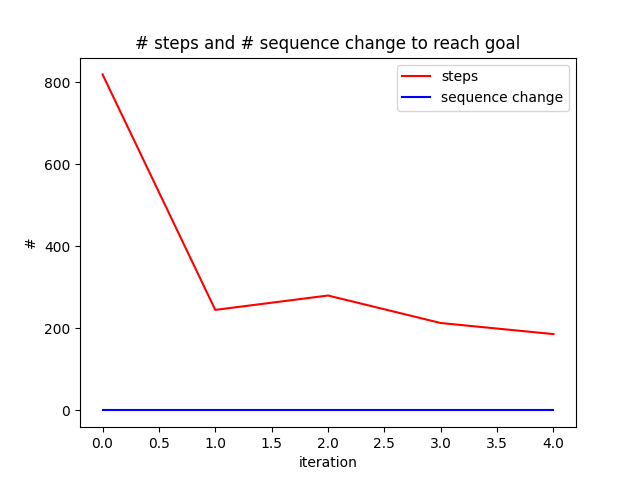
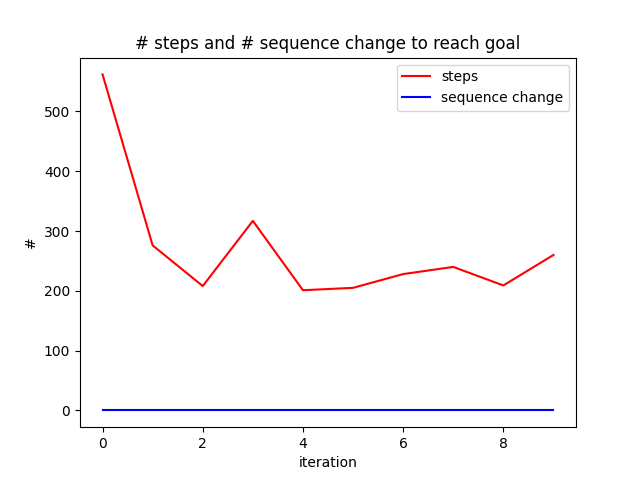
Update

diff --git a/voiture/main.py b/voiture/main.py
@@ -28,7 +28,7 @@ last_reward = 0
 last_action = 0
 last_distance = 0
 last_orientation = 0
-last_nb_steps = 1e5
+last_nb_steps = 1
 cum_rewards = 0
 scores = []
 steps_memory = []
@@ -120,35 +120,18 @@ class Game(Widget):
             if distance < last_distance:
                 last_reward = 0.1 # driving towards objective reward
 
-        # score based also on orientation
-        #  last_reward += (1-abs(orientation)) * 0.9
-        # if abs(last_orientation) < abs(orientation):
-        #     last_reward -= 0.2
-        # elif abs(last_orientation) == abs(orientation):
-        #     last_reward += 0.
-        # else:
-        #     last_reward += 0.2
-        # Score also based on sequence change
-        # global last_action
-        # if list_actions[last_action][0] == list_actions[action][0]:
-        #     last_reward += 0.02
-        # else:
-        #     self.seq_change += 1
-
-        # last_action = action
-
         if self.robot.x < 10:
             self.robot.x = 10
-            last_reward = -50  # too close to edges of the wall reward
+            last_reward = -10  # too close to edges of the wall reward
         if self.robot.x > self.width - 10:
             self.robot.x = self.width - 10
-            last_reward = -50
+            last_reward = -10
         if self.robot.y < 10:
             self.robot.y = 10
-            last_reward = -50
+            last_reward = -10
         if self.robot.y > self.height - 10:
             self.robot.y = self.height - 10
-            last_reward = -50
+            last_reward = -10
 
         if distance < 50:
             global goal_reached_nb

diff --git a/voiture/controller_widgets.py b/voiture/controller_widgets.py
@@ -30,7 +30,11 @@ class Robot(Widget):
         return 0.
 
     def move(self, displacement, sand, width, height):
-        self.pos = Vector(displacement[0], displacement[1]).rotate(self.angle) + self.pos
+
+        if Vector(*self.velocity).length() < 1.:
+            self.pos = Vector(displacement[0]/100, displacement[1]/100).rotate(self.angle) + self.pos
+        else:
+            self.pos = Vector(displacement[0], displacement[1]).rotate(self.angle) + self.pos
         self.rotation = displacement[2]
 
         self.angle += self.rotation
